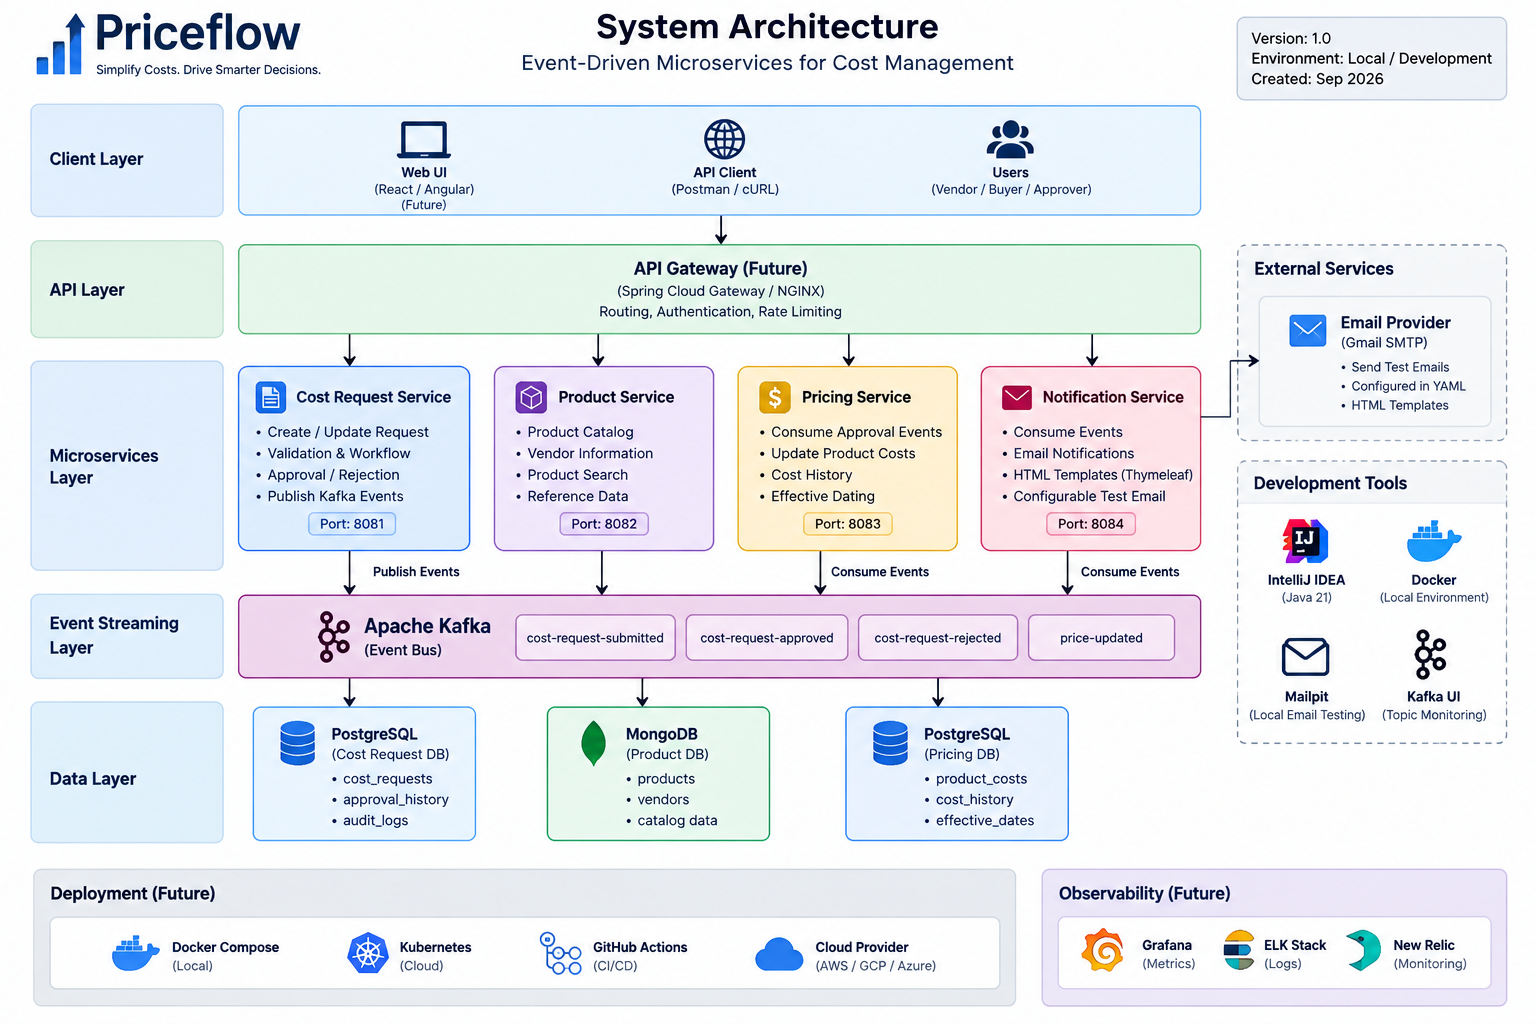
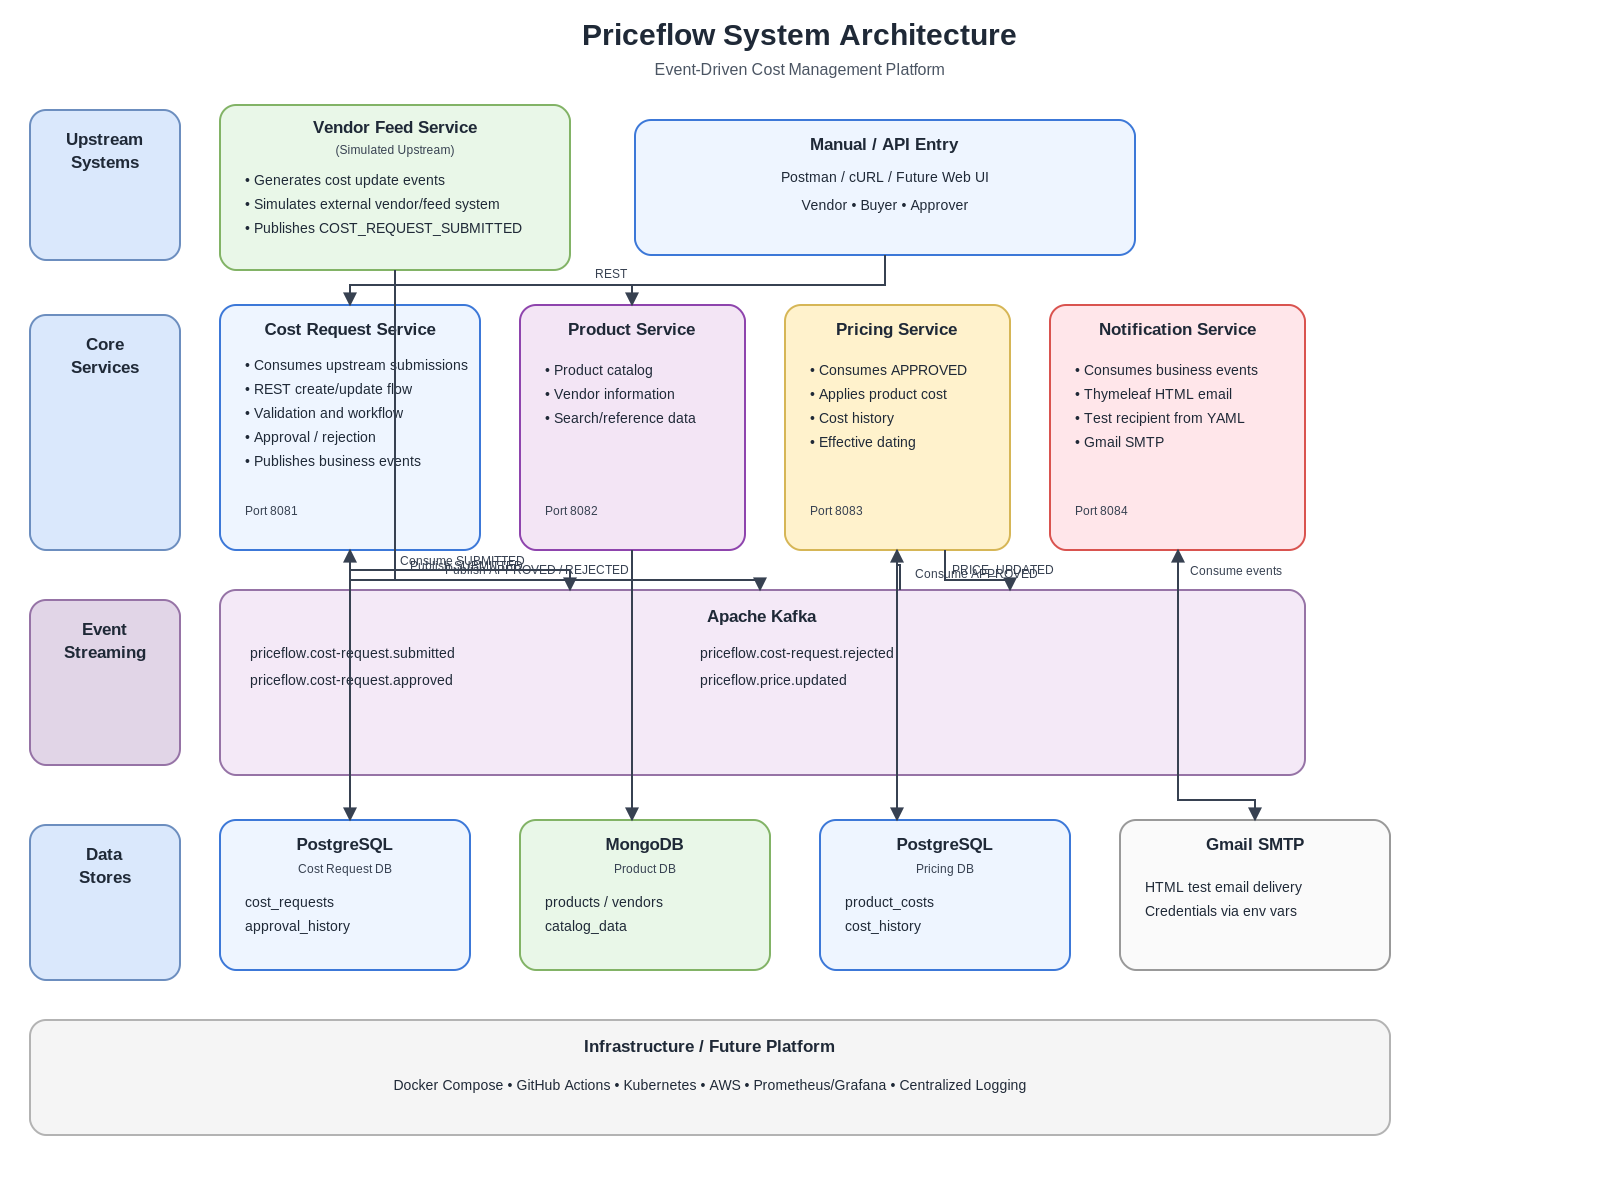
docs: add Priceflow system architecture diagram

Changed region(s): [[0.0, 0.0, 1.0, 0.9688], [0.8125, 0.0312, 0.9688, 0.0938], [0.9062, 0.5, 0.9688, 0.5938]]

diff --git a/README.md b/README.md
@@ -1,14 +1,64 @@
 # Priceflow
 
-Priceflow is a production-style event-driven pricing and vendor cost management platform built as a personal portfolio project.
+Priceflow is a production-style, event-driven vendor cost and pricing management platform built as a personal portfolio project.
+
+The project demonstrates a microservices-based backend architecture using Java, Spring Boot, Apache Kafka, PostgreSQL, MongoDB, containerization, and cloud-native deployment practices.
 
 ## System Architecture
 
-Priceflow follows an event-driven microservices architecture for managing vendor cost requests, product data, pricing updates, and notifications.
+Priceflow follows an event-driven microservices architecture that simulates an end-to-end enterprise cost management workflow.
+
+Cost updates can enter the platform through a simulated upstream vendor feed or through REST APIs. Cost requests are validated and processed through an approval workflow before approved changes are propagated asynchronously to downstream pricing and notification services using Apache Kafka.
 
 ![Priceflow System Architecture](docs/architecture/Priceflow-architecture.png)
 
 > The editable architecture diagram is available at [`docs/architecture/Priceflow-architecture.drawio`](docs/architecture/Priceflow-architecture.drawio).
+
+## High-Level Event Flow
+
+```text
+Vendor Feed Service (Simulated Upstream)
+                │
+                │ COST_REQUEST_SUBMITTED
+                ▼
+          Apache Kafka
+                │
+                ▼
+       Cost Request Service
+                │
+        Validation / Approval
+                │
+        ┌───────┴────────┐
+        │                │
+     APPROVED         REJECTED
+        │                │
+        ▼                ▼
+    Apache Kafka Event Bus
+        │                │
+        ▼                ▼
+ Pricing Service   Notification Service
+        │
+        ▼
+   PRICE_UPDATED
+        │
+        ▼
+    Apache Kafka
+        │
+        ▼
+ Notification Service
+```
+
+The Cost Request Service also exposes REST APIs so cost requests can be submitted manually through API clients or a future web application.
+
+## Services
+
+| Service | Responsibility | Port |
+|---|---|---:|
+| `vendor-feed-service` | Simulates an external upstream system and publishes cost update events | 8080 |
+| `cost-request-service` | Manages cost requests, validation, workflow, approvals, and rejections | 8081 |
+| `product-service` | Provides product, vendor, and catalog reference data | 8082 |
+| `pricing-service` | Applies approved cost changes and maintains pricing history | 8083 |
+| `notification-service` | Consumes business events and sends HTML email notifications | 8084 |
 
 ## Technology Stack
 
@@ -16,10 +66,12 @@ Priceflow follows an event-driven microservices architecture for managing vendor
 - Spring Boot
 - Spring WebFlux
 - Apache Kafka
+- Maven
 - PostgreSQL
 - MongoDB
 - Redis
-- Docker
+- Thymeleaf
+- Docker / Docker Compose
 - Kubernetes
 - GitHub Actions
 
@@ -28,31 +80,60 @@ Priceflow follows an event-driven microservices architecture for managing vendor
 ```text
 Priceflow/
 ├── services/
-│   └── cost-request-service/
+│   ├── vendor-feed-service/          # Simulated upstream
+│   ├── cost-request-service/         # Cost request lifecycle
+│   ├── product-service/              # Product and vendor data
+│   ├── pricing-service/              # Downstream pricing processing
+│   └── notification-service/         # Event-driven email notifications
+│
 ├── docs/
 │   └── architecture/
+│       ├── Priceflow-architecture.drawio
+│       └── Priceflow-architecture.png
+│
 ├── infrastructure/
 │   ├── docker/
 │   └── kubernetes/
+│
 ├── .github/
 │   └── workflows/
+│
 └── README.md
 ```
 
 ## Current Status
 
-The initial `cost-request-service` Spring Boot skeleton is configured and running successfully with Java 21, Maven, WebFlux, Validation, Lombok, and Spring Boot Actuator.
+The project foundation and system architecture have been established.
+
+The initial `cost-request-service` Spring Boot application is configured and running successfully with:
+
+- Java 21
+- Maven
+- Spring Boot
+- Spring WebFlux
+- Validation
+- Lombok
+- Spring Boot Actuator
+
+Application health is exposed through Spring Boot Actuator.
+
+Additional services and infrastructure will be implemented incrementally.
 
 ## Planned Capabilities
 
+- Simulated upstream vendor cost feed
 - Vendor cost change request lifecycle
 - Product and catalog lookup
-- Approval workflow
-- Kafka-based event-driven processing
-- Pricing updates
-- Notifications
+- Cost request validation
+- Approval and rejection workflow
+- Kafka-based event-driven communication
+- Pricing updates and cost history
+- HTML email notifications
+- Retry and dead-letter handling
 - Authentication and authorization
-- Observability
-- Containerized local development
+- PostgreSQL and MongoDB persistence
+- Redis caching
+- Observability and centralized logging
+- Docker Compose local development
 - Kubernetes deployment
-- CI/CD
+- CI/CD with GitHub Actions
